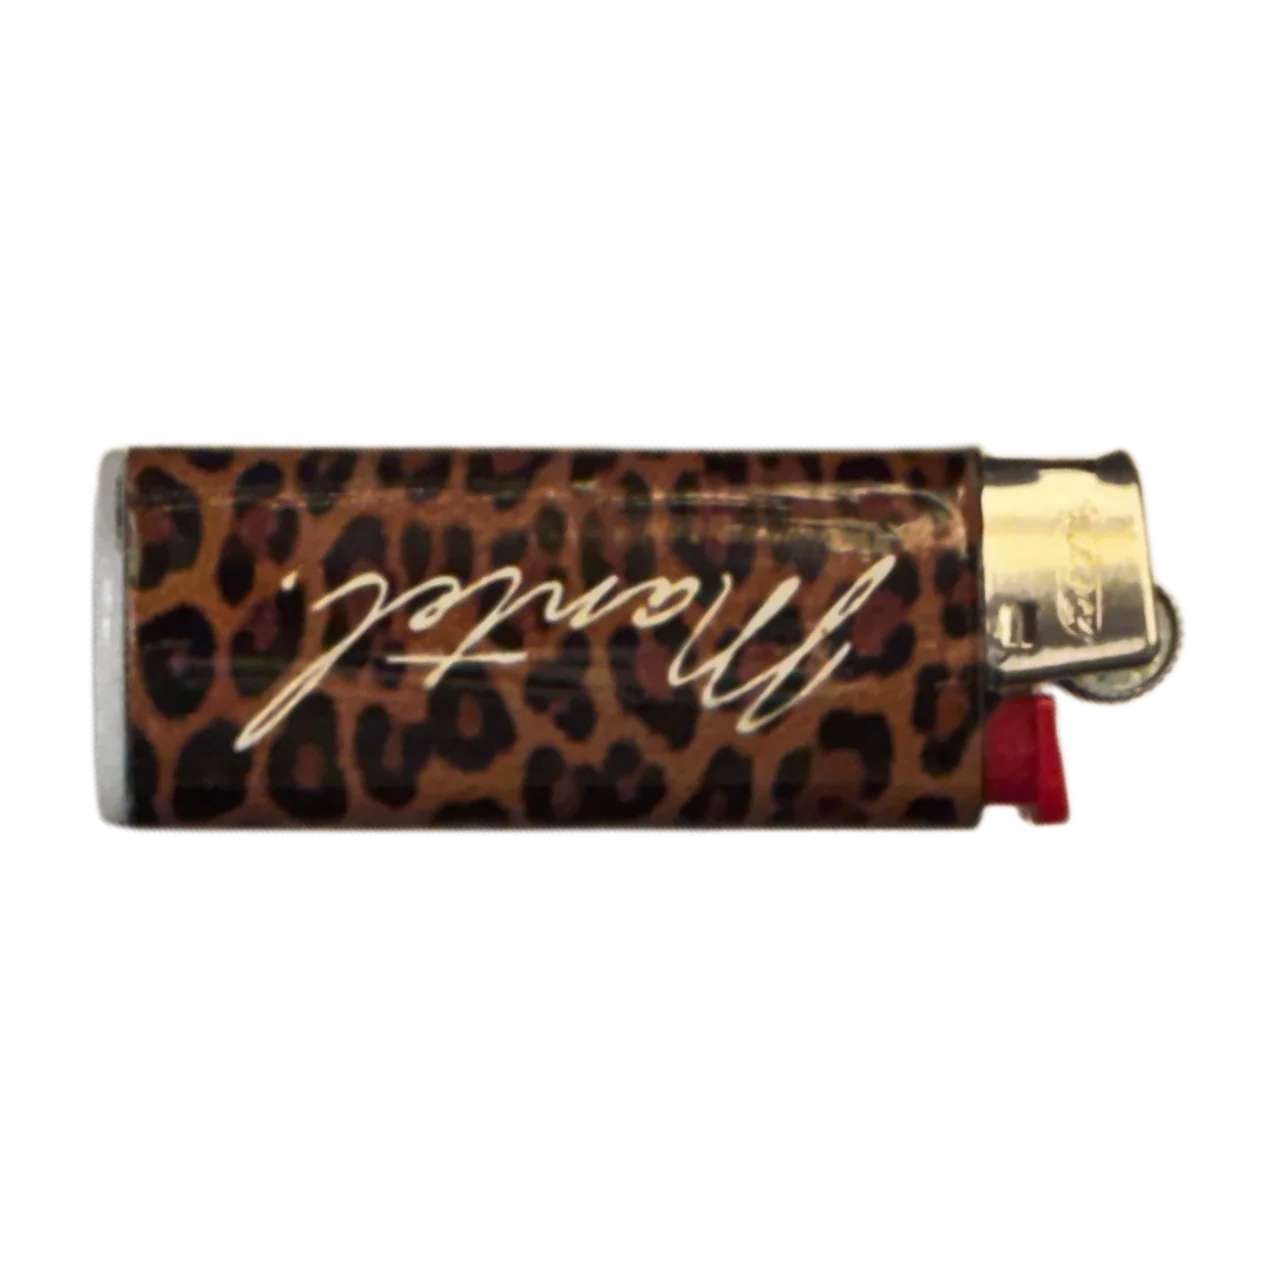
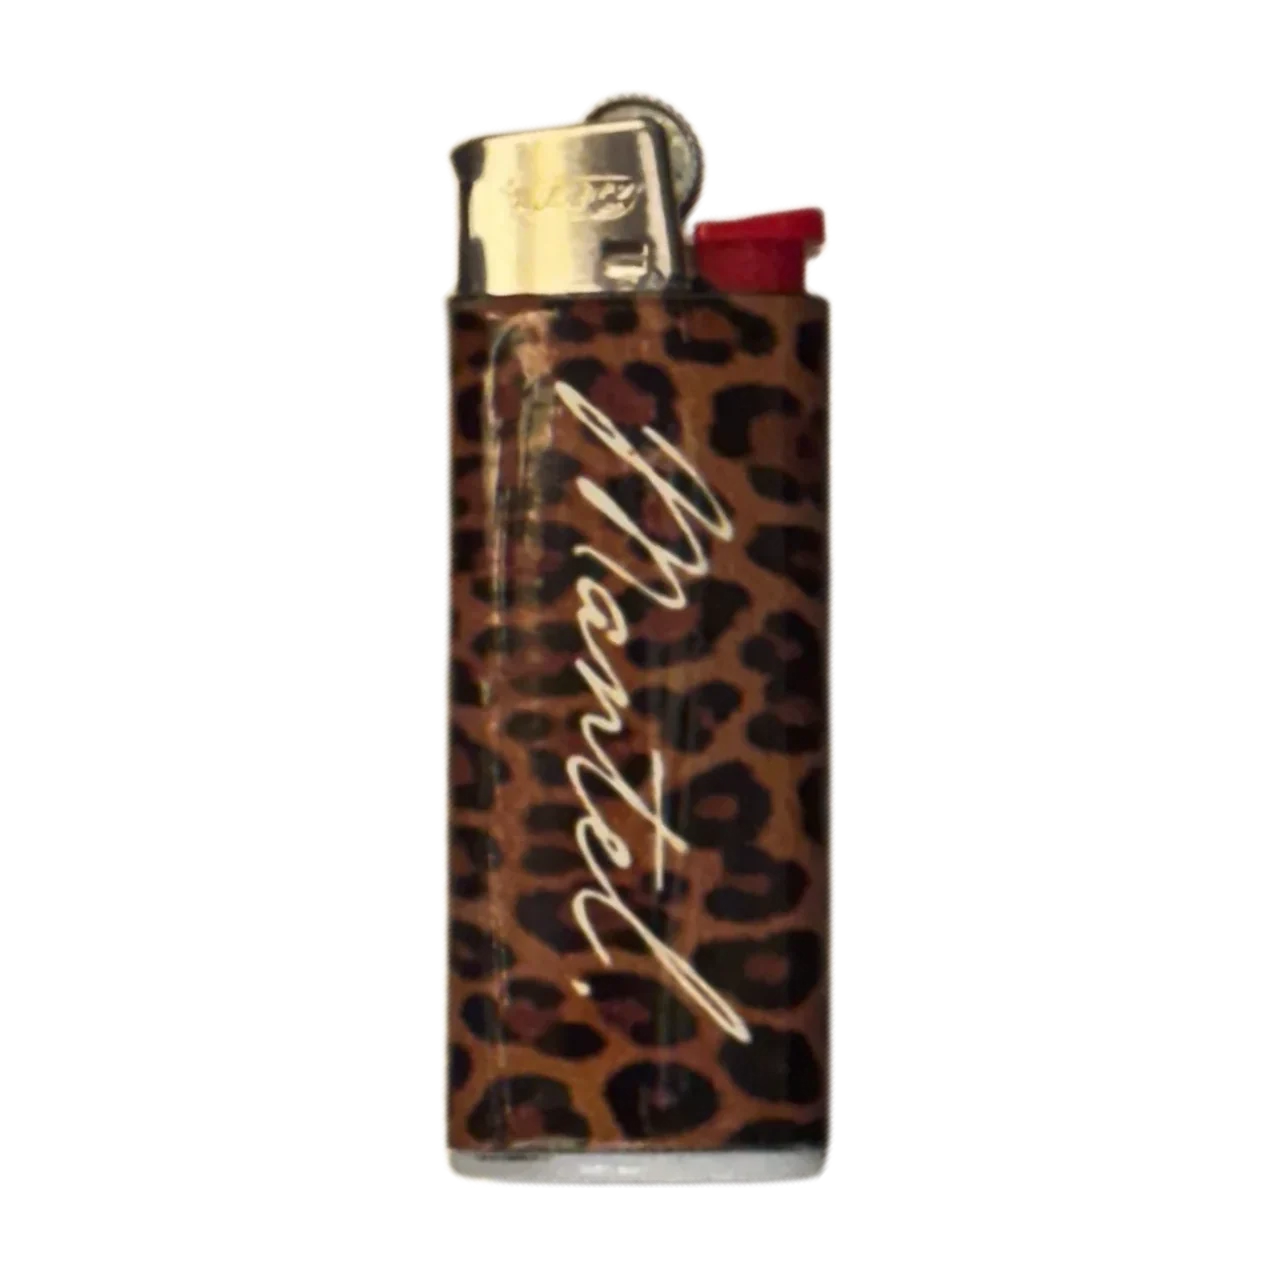
Stand the lighter up and give it both colourways
The lighter was shot lying down, and levelling it in the last commit left
it lying down neatly — which is not what a lighter looks like. It stands
now, nozzle up, script reading down the body, and both faces read the same
way round.

The checkerboard is the other half of the same product, not a separate one,
so it joins the leopard on one card and steps through with the dots the
tote already uses.

Claude-Session: https://claude.ai/code/session_01AnAG7Wj7sxejaKvcuGauE9

diff --git a/src/app/content/retail.ts b/src/app/content/retail.ts
@@ -2,6 +2,7 @@ import retailCandleSticksImage from "@/imports/retail-candle-sticks.webp";
 import retailToteImage from "@/imports/retail-tote.webp";
 import retailToteHeartImage from "@/imports/retail-tote-heart.webp";
 import retailLighterImage from "@/imports/retail-lighter.webp";
+import retailLighterCheckImage from "@/imports/retail-lighter-check.webp";
 import retailCandleImage from "@/imports/retail-candle.webp";
 import retailMatchaImage from "@/imports/retail-matcha.webp";
 import retailMatchSticksImage from "@/imports/retail-match-sticks.webp";
@@ -50,12 +51,11 @@ export type CartLine = {
  * 2026-09-16:
  *
  *   candles        the four stacked MANTEL tins
- *   lighters       the leopard-print lighter (the checkerboard colourway is a
- *                  different product, not a second face, so it is not here)
+ *   lighters       both colourways, leopard then checkerboard — one card,
+ *                  stepped through by ObjectSlides
  *   candle-sticks  the pair of cream tapers in the corrugated heart band
  *   match-sticks   the MANTEL safety-matches label
- *   custom-bags    the "Mantel." tote AND its red-heart face — the one card
- *                  with two, stepped through by ObjectSlides
+ *   custom-bags    the "Mantel." tote and its red-heart face, also two
  *
  * matcha-powder is the exception and still a pre-launch mockup: no photograph
  * of it has been taken.
@@ -107,6 +107,7 @@ export const RETAIL_PRODUCTS: RetailProduct[] = [
     description: "A small object with a little ceremony.",
     price: 3,
     image: retailLighterImage,
+    images: [retailLighterImage, retailLighterCheckImage],
     tone: "lighter",
   },
   {
